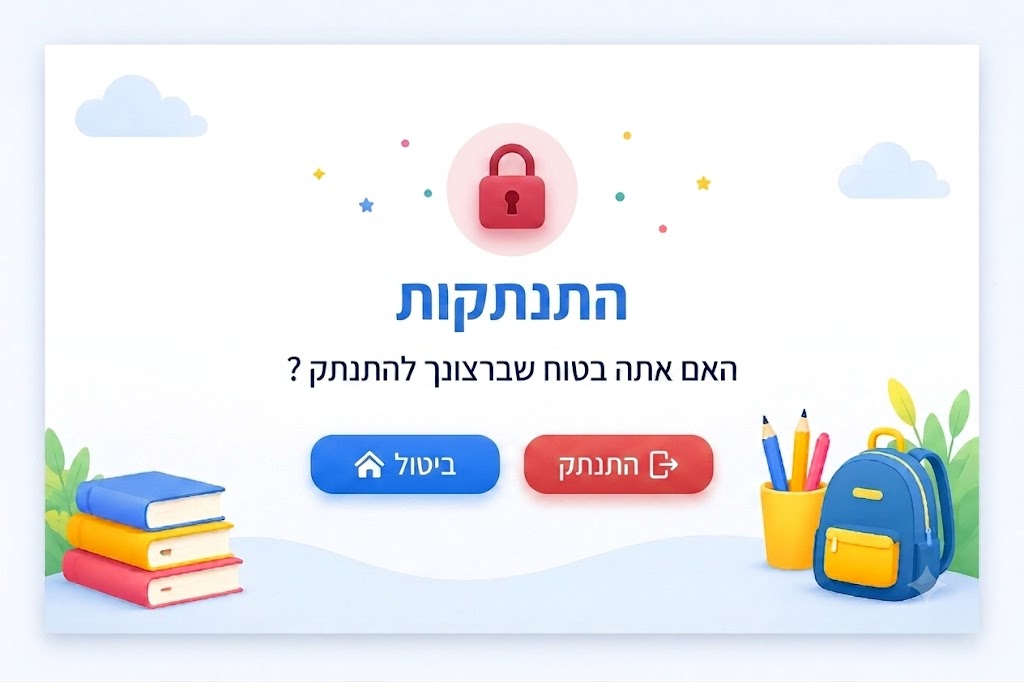
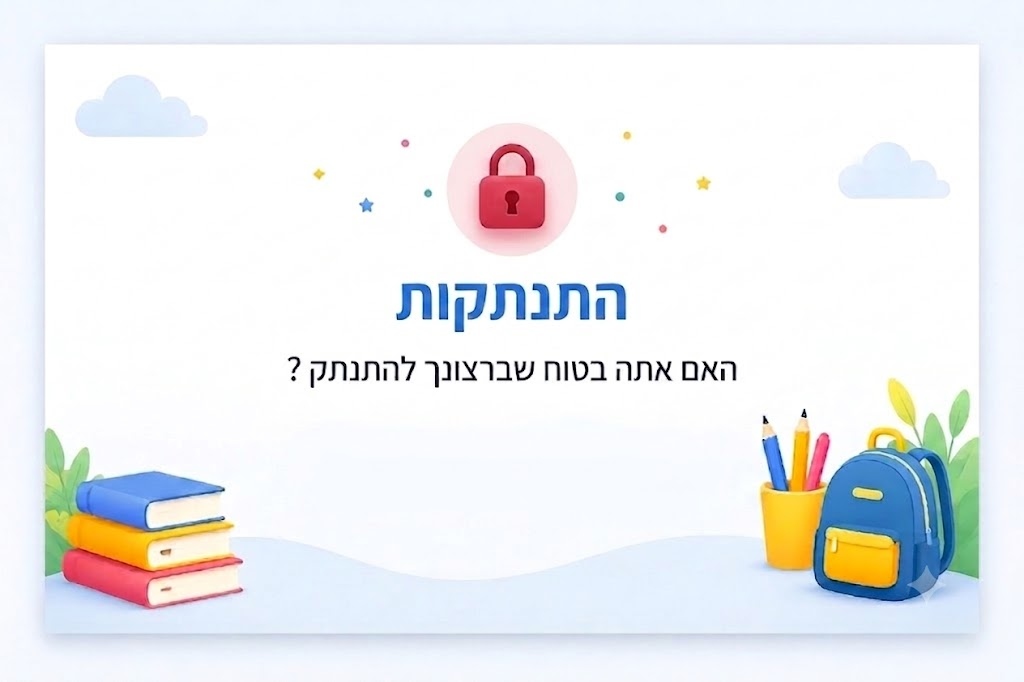
place logout PNG buttons below background image instead of overlaid

diff --git a/user.js b/user.js
@@ -301,14 +301,16 @@ function _showConfirm(opts) {
     ov.id = 'customConfirmOv';
     ov.style.cssText = 'position:fixed;inset:0;background:rgba(0,0,0,0.45);z-index:30000;display:flex;align-items:center;justify-content:center;direction:rtl;';
     var imgOverlay = opts.img
-        ? '<div style="position:relative;display:block;width:100%;">' +
+        ? '<div>' +
               '<img src="' + opts.img + '" style="width:100%;display:block;">' +
-              '<button id="ccCancel" style="position:absolute;left:8%;bottom:12%;width:35%;border:none;background:transparent;cursor:pointer;padding:0;">' +
-                  '<img src="images/ui/כפתור ביטול.png" style="width:100%;display:block;">' +
-              '</button>' +
-              '<button id="ccOk" style="position:absolute;right:8%;bottom:12%;width:35%;border:none;background:transparent;cursor:pointer;padding:0;">' +
-                  '<img src="images/ui/כפתור התנתק.png" style="width:100%;display:block;">' +
-              '</button>' +
+              '<div style="display:flex;gap:1rem;padding:1rem 1.5rem 1.2rem;background:#fff;justify-content:center;">' +
+                  '<button id="ccCancel" style="flex:1;border:none;background:transparent;cursor:pointer;padding:0;">' +
+                      '<img src="images/ui/כפתור ביטול.png" style="width:100%;display:block;">' +
+                  '</button>' +
+                  '<button id="ccOk" style="flex:1;border:none;background:transparent;cursor:pointer;padding:0;">' +
+                      '<img src="images/ui/כפתור התנתק.png" style="width:100%;display:block;">' +
+                  '</button>' +
+              '</div>' +
           '</div>'
         : '<div style="padding:1.6rem 1.8rem 1.4rem;text-align:center;">' +
               (opts.icon ? '<div style="font-size:2.4rem;margin-bottom:0.6rem;">' + opts.icon + '</div>' : '') +